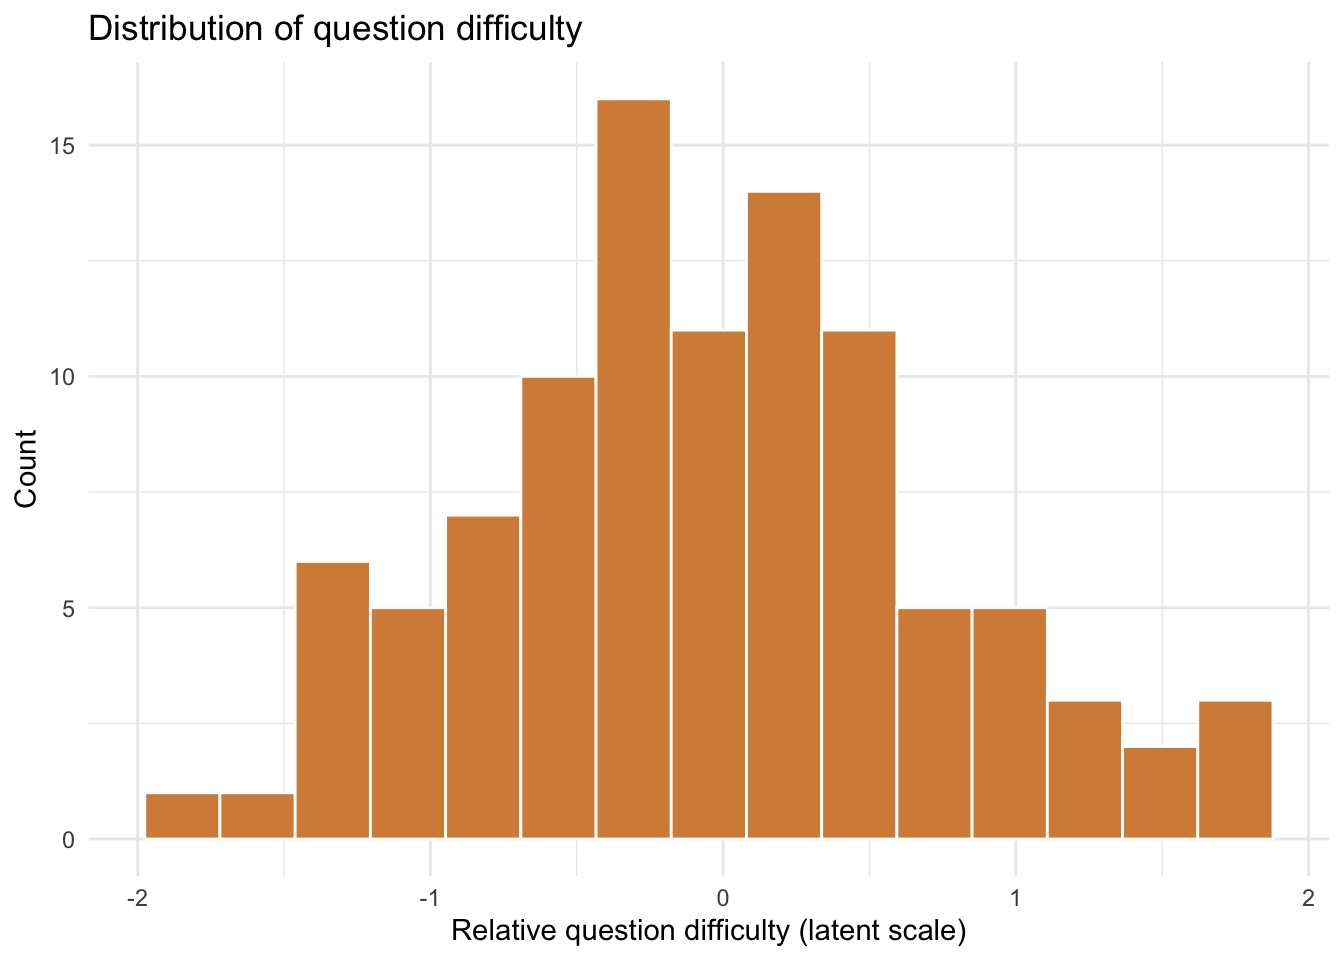
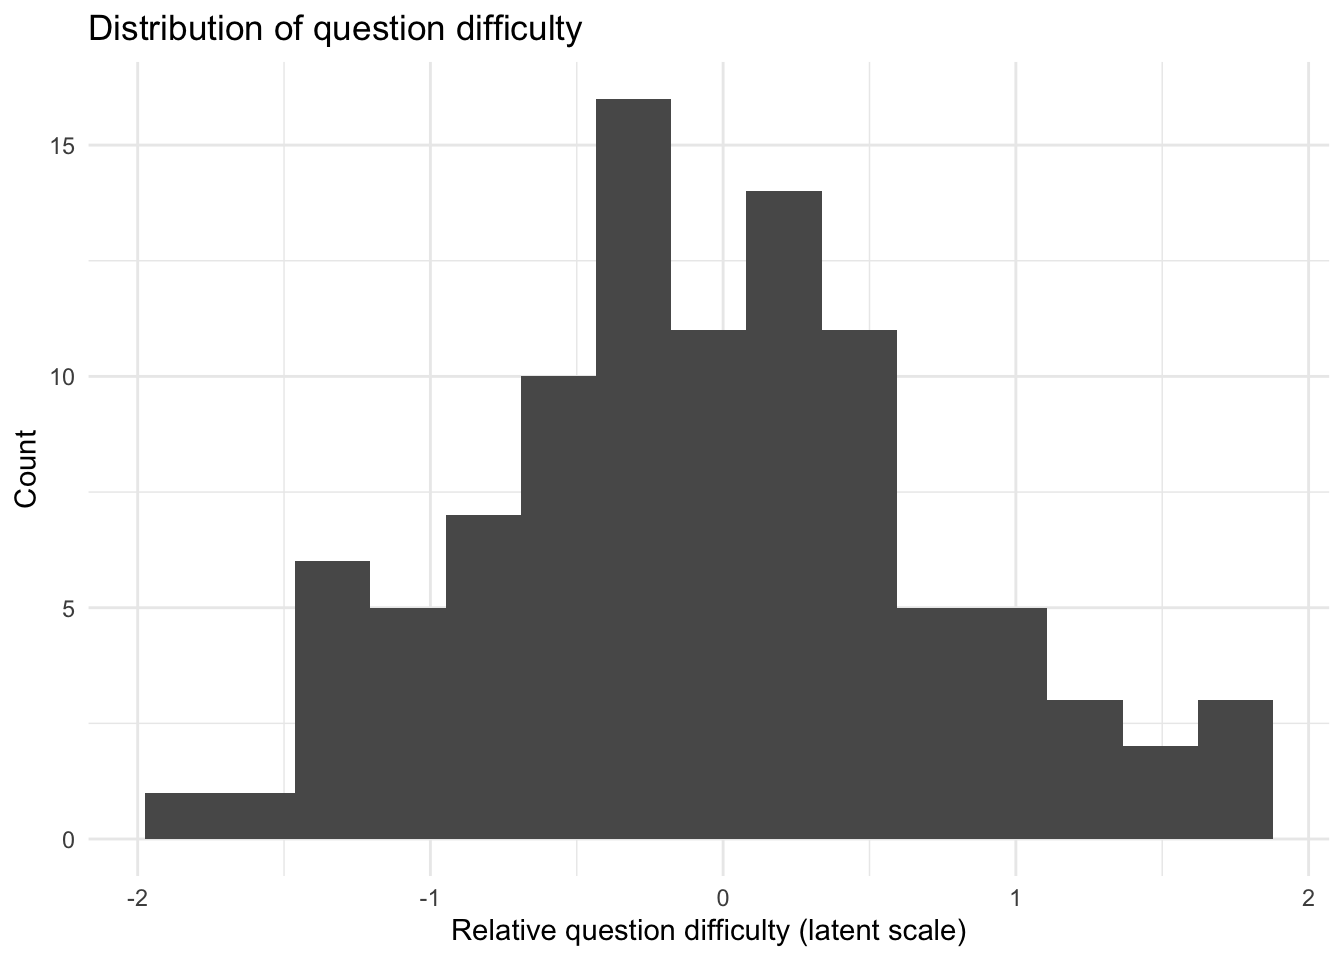
edited analysis

Changed region(s): [[0.0938, 0.0938, 0.9688, 0.875]]

diff --git a/analysis/analysis.html b/analysis/analysis.html
@@ -348,7 +348,7 @@ Attaching package: 'dplyr'</code></pre>
 <p>These plots give a quick view of the simulated dataset. The first two plots show latent simulation quantities rather than directly observed measurements: examiner skill is a relative skill parameter, question difficulty is a relative difficulty parameter, and both are plotted on the latent scale used to generate the response probabilities. The third plot shows the mix of simulated response types.</p>
 <div class="cell">
 <div class="code-copy-outer-scaffold"><div class="sourceCode cell-code" id="cb21"><pre class="sourceCode r code-with-copy"><code class="sourceCode r"><span id="cb21-1"><a href="#cb21-1" aria-hidden="true" tabindex="-1"></a><span class="fu">ggplot</span>(examiner_panel, <span class="fu">aes</span>(<span class="at">x =</span> examiner_skill)) <span class="sc">+</span></span>
-<span id="cb21-2"><a href="#cb21-2" aria-hidden="true" tabindex="-1"></a>  <span class="fu">geom_histogram</span>(<span class="at">bins =</span> <span class="dv">15</span>, <span class="at">fill =</span> <span class="st">"#3B7EA1"</span>, <span class="at">color =</span> <span class="st">"white"</span>) <span class="sc">+</span></span>
+<span id="cb21-2"><a href="#cb21-2" aria-hidden="true" tabindex="-1"></a>  <span class="fu">geom_histogram</span>(<span class="at">bins =</span> <span class="dv">15</span>) <span class="sc">+</span></span>
 <span id="cb21-3"><a href="#cb21-3" aria-hidden="true" tabindex="-1"></a>  <span class="fu">labs</span>(</span>
 <span id="cb21-4"><a href="#cb21-4" aria-hidden="true" tabindex="-1"></a>    <span class="at">title =</span> <span class="st">"Distribution of examiner skill"</span>,</span>
 <span id="cb21-5"><a href="#cb21-5" aria-hidden="true" tabindex="-1"></a>    <span class="at">x =</span> <span class="st">"Relative examiner skill (latent scale)"</span>,</span>
@@ -365,7 +365,7 @@ Attaching package: 'dplyr'</code></pre>
 </div>
 <div class="cell">
 <div class="code-copy-outer-scaffold"><div class="sourceCode cell-code" id="cb22"><pre class="sourceCode r code-with-copy"><code class="sourceCode r"><span id="cb22-1"><a href="#cb22-1" aria-hidden="true" tabindex="-1"></a><span class="fu">ggplot</span>(comparison_set, <span class="fu">aes</span>(<span class="at">x =</span> question_difficulty)) <span class="sc">+</span></span>
-<span id="cb22-2"><a href="#cb22-2" aria-hidden="true" tabindex="-1"></a>  <span class="fu">geom_histogram</span>(<span class="at">bins =</span> <span class="dv">15</span>, <span class="at">fill =</span> <span class="st">"#D68C45"</span>, <span class="at">color =</span> <span class="st">"white"</span>) <span class="sc">+</span></span>
+<span id="cb22-2"><a href="#cb22-2" aria-hidden="true" tabindex="-1"></a>  <span class="fu">geom_histogram</span>(<span class="at">bins =</span> <span class="dv">15</span>) <span class="sc">+</span></span>
 <span id="cb22-3"><a href="#cb22-3" aria-hidden="true" tabindex="-1"></a>  <span class="fu">labs</span>(</span>
 <span id="cb22-4"><a href="#cb22-4" aria-hidden="true" tabindex="-1"></a>    <span class="at">title =</span> <span class="st">"Distribution of question difficulty"</span>,</span>
 <span id="cb22-5"><a href="#cb22-5" aria-hidden="true" tabindex="-1"></a>    <span class="at">x =</span> <span class="st">"Relative question difficulty (latent scale)"</span>,</span>
@@ -390,14 +390,7 @@ Attaching package: 'dplyr'</code></pre>
 <span id="cb23-7"><a href="#cb23-7" aria-hidden="true" tabindex="-1"></a>    <span class="at">x =</span> <span class="st">"Response"</span>,</span>
 <span id="cb23-8"><a href="#cb23-8" aria-hidden="true" tabindex="-1"></a>    <span class="at">y =</span> <span class="st">"Count"</span></span>
 <span id="cb23-9"><a href="#cb23-9" aria-hidden="true" tabindex="-1"></a>  ) <span class="sc">+</span></span>
-<span id="cb23-10"><a href="#cb23-10" aria-hidden="true" tabindex="-1"></a>  <span class="fu">scale_fill_manual</span>(</span>
-<span id="cb23-11"><a href="#cb23-11" aria-hidden="true" tabindex="-1"></a>    <span class="at">values =</span> <span class="fu">c</span>(</span>
-<span id="cb23-12"><a href="#cb23-12" aria-hidden="true" tabindex="-1"></a>      <span class="at">identification =</span> <span class="st">"#2A9D8F"</span>,</span>
-<span id="cb23-13"><a href="#cb23-13" aria-hidden="true" tabindex="-1"></a>      <span class="at">elimination =</span> <span class="st">"#E76F51"</span>,</span>
-<span id="cb23-14"><a href="#cb23-14" aria-hidden="true" tabindex="-1"></a>      <span class="at">inconclusive =</span> <span class="st">"#E9C46A"</span></span>
-<span id="cb23-15"><a href="#cb23-15" aria-hidden="true" tabindex="-1"></a>    )</span>
-<span id="cb23-16"><a href="#cb23-16" aria-hidden="true" tabindex="-1"></a>  ) <span class="sc">+</span></span>
-<span id="cb23-17"><a href="#cb23-17" aria-hidden="true" tabindex="-1"></a>  <span class="fu">theme_minimal</span>()</span></code></pre></div><button title="Copy to Clipboard" class="code-copy-button"><i class="bi"></i></button></div>
+<span id="cb23-10"><a href="#cb23-10" aria-hidden="true" tabindex="-1"></a>  <span class="fu">theme_minimal</span>()</span></code></pre></div><button title="Copy to Clipboard" class="code-copy-button"><i class="bi"></i></button></div>
 <div class="cell-output-display">
 <div>
 <figure class="figure">
